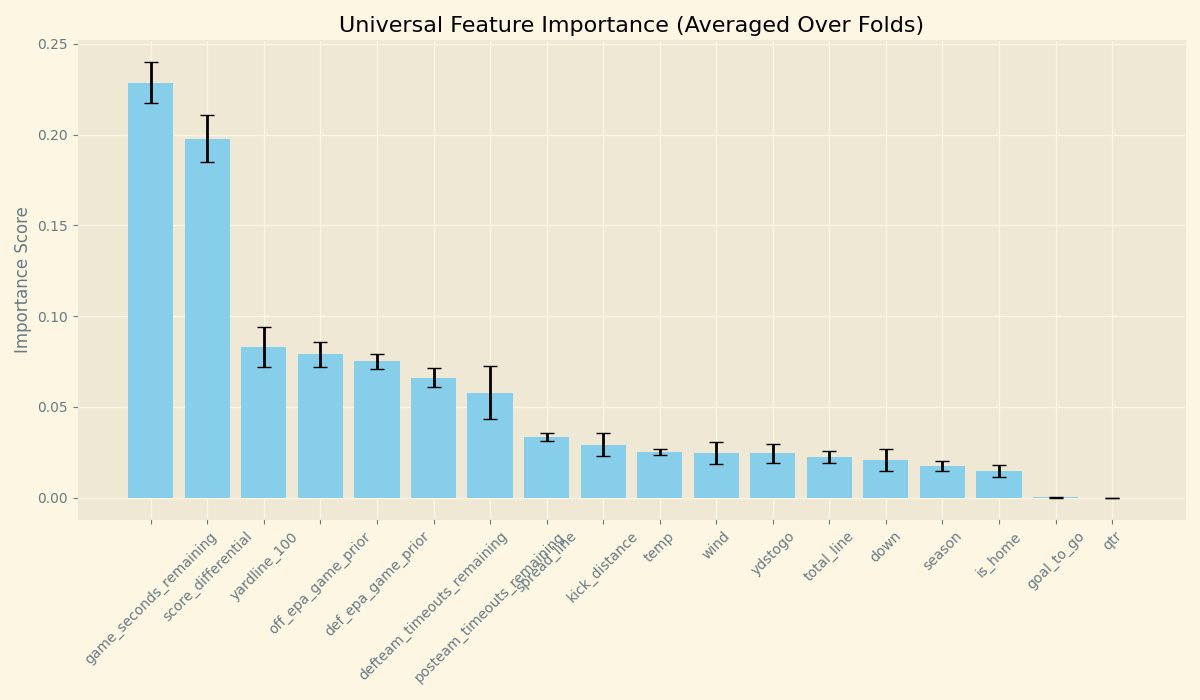
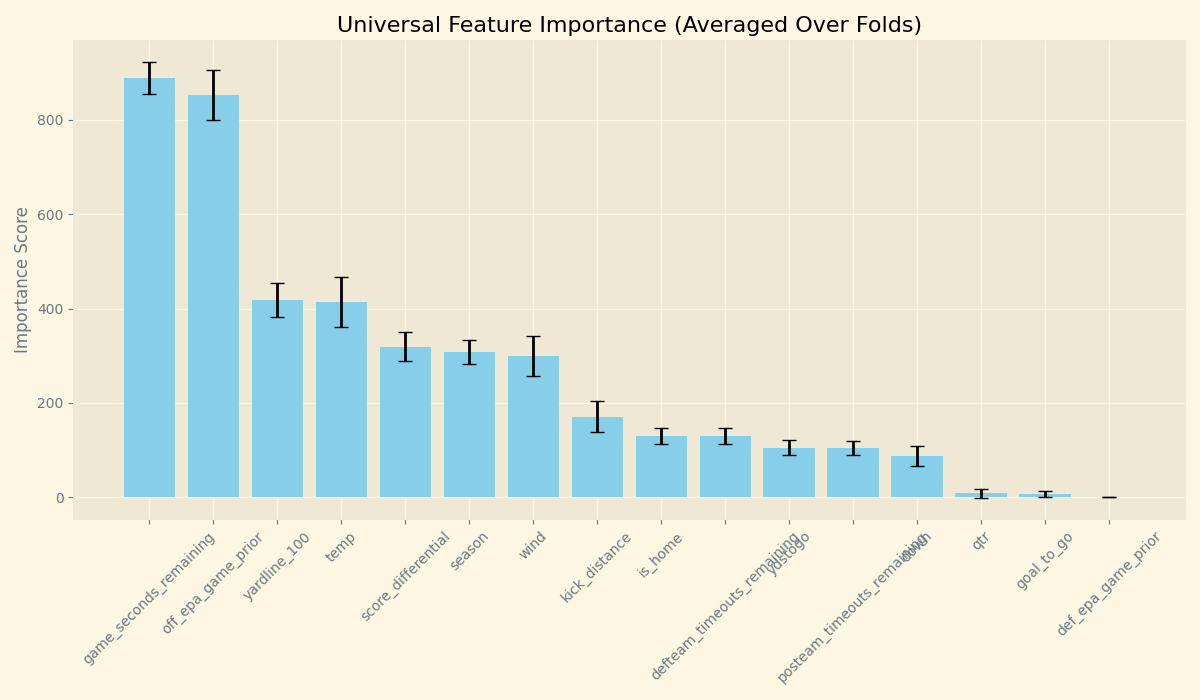
started the lightgbm model

diff --git a/notebooks/data_exploration.py b/notebooks/data_exploration.py
@@ -1,4 +1,4 @@
-import nflreadpy as nfl  # Switched to nflreadpy
+import nflreadpy as nfl 
 import pandas as pd
 import os
 import matplotlib.pyplot as plt
@@ -12,6 +12,8 @@ from sklearn.calibration import CalibratedClassifierCV
 from sklearn.metrics import recall_score, precision_score, f1_score
 from sklearn.model_selection import RandomizedSearchCV
 
+import lightgbm as lgb
+from lightgbm import LGBMClassifier
 
 
 plt.style.use('Solarize_Light2')
@@ -25,8 +27,7 @@ def load_comeback_data(years=list(range(2015,2025))):
         'qtr', 'game_seconds_remaining', 'score_differential',
         'yardline_100', 'down', 'ydstogo',
         'posteam_timeouts_remaining', 'defteam_timeouts_remaining',
-        'spread_line', 'epa', 'wind', 'total_line',
-        'kick_distance', 'temp', 'goal_to_go', 'result'
+         'epa', 'wind', 'kick_distance', 'temp', 'goal_to_go', 'result'
     ]
 
     def _download_and_cache_full_pbp():
@@ -50,7 +51,6 @@ def load_comeback_data(years=list(range(2015,2025))):
     else:
         pbp = _download_and_cache_full_pbp()
 
-    # Enforce the modeling schema for both cached and freshly-downloaded data.
     missing_after_refresh = [c for c in columns if c not in pbp.columns]
     if missing_after_refresh:
         raise ValueError(
@@ -61,7 +61,7 @@ def load_comeback_data(years=list(range(2015,2025))):
 
     pbp = add_epa(pbp)
     pbp = add_home_team(pbp)
-    df = pbp[pbp['qtr'] == 4].copy()
+    df = pbp[pbp['qtr'] >= 4].copy()
 
     def determine_win(row):
         if row['posteam'] == row['home_team']:
@@ -71,18 +71,15 @@ def load_comeback_data(years=list(range(2015,2025))):
 
     df['won_game'] = df.apply(determine_win, axis=1)
 
-    comeback_df = df[(df['qtr'] >= 4) & (df['score_differential'] < 0) & (df['score_differential'] >= -8)].copy()
+    comeback_df = df[(df['score_differential'] < 0) & (df['score_differential'] >= -8)].copy()
     comeback_df = comeback_df.sort_values(['game_id', 'game_seconds_remaining'], ascending=[True, False])
 
-    # Build drive IDs from possession changes within each game.
     drive_start = comeback_df['posteam'] != comeback_df.groupby('game_id')['posteam'].shift(1)
     comeback_df['drive_id'] = drive_start.groupby(comeback_df['game_id']).cumsum()
 
-    # Keep only each team's final trailing drive in the game.
     last_drive = comeback_df.groupby(['game_id', 'posteam'])['drive_id'].transform('max')
     comeback_df = comeback_df[comeback_df['drive_id'] == last_drive]
 
-    # Keep only the first play of that drive (most time remaining).
     comeback_df = (
         comeback_df.sort_values(['game_id', 'posteam', 'game_seconds_remaining'], ascending=[True, True, False])
         .groupby(['game_id', 'posteam'], as_index=False)
@@ -153,7 +150,7 @@ def prep_train_data(df):
     
     return X_train, X_test, y_train, y_test, X_val, y_val
 
-def rf_model(X_train, X_test, y_train, y_test, X_val, y_val):
+def train_rf_model(X_train, X_test, y_train, y_test, X_val, y_val):
     rf_base = RandomForestClassifier(
         random_state=42
     )
@@ -180,10 +177,10 @@ def rf_model(X_train, X_test, y_train, y_test, X_val, y_val):
     print("Best Params:", search.best_params_)
 
     best_rf = search.best_estimator_
-    rf_model = CalibratedClassifierCV(best_rf, method='sigmoid', cv=5)
-    rf_model.fit(X_train, y_train)
+    calibrated_rf = CalibratedClassifierCV(best_rf, method='sigmoid', cv=5)
+    calibrated_rf.fit(X_train, y_train)
     
-    val_probs = rf_model.predict_proba(X_val)[:,1]
+    val_probs = calibrated_rf.predict_proba(X_val)[:,1]
     thresholds = np.arange(0.05, 0.98, 0.02)
     best_t = 0.2
     best_r = -1
@@ -204,15 +201,75 @@ def rf_model(X_train, X_test, y_train, y_test, X_val, y_val):
     print("Best Precision: " + str(best_p))
     print("Best F1-Score: " + str(best_f1))
 
-    test_probs = rf_model.predict_proba(X_test)[:,1]
+    test_probs = calibrated_rf.predict_proba(X_test)[:,1]
     predictions = (test_probs >= best_t).astype(int)
     acc = accuracy_score(y_test, predictions)
     print(f'Model Accuracy: {acc:.2%}') 
     print(classification_report(y_test, predictions))
-    return rf_model, best_t
+    return calibrated_rf, best_t
 
-def plot_confusion_matrix(rf_model, X_test, y_test, threshold):
-    test_probs = rf_model.predict_proba(X_test)[:,1]
+def train_lightgbm_model(X_train, X_test, y_train, y_test, X_val, y_val):
+
+    lightgbm_base = LGBMClassifier(objective = 'binary', random_state=42, verbose = -1)
+    rs_params={
+        "n_estimators": [100, 200, 300, 500],   
+        "learning_rate": [0.01, 0.05, 0.1, 0.2],
+        "num_leaves": [15, 31, 63],
+        "max_depth": [-1, 4, 6, 8],
+        "subsample": [0.6, 0.8, 1.0],           
+        "colsample_bytree": [0.6, 0.8, 1.0],   
+        "min_child_samples": [10, 20, 40]
+    }
+    search = RandomizedSearchCV(
+        estimator = lightgbm_base,
+        param_distributions= rs_params,
+        n_iter = 40,
+        scoring = 'f1',
+        cv = 5,
+        random_state=42,
+        n_jobs = 1,
+        verbose = 1
+    )
+    search.fit(X_train, y_train)
+    print("Best CV F1:", search.best_score_)
+    print("Best Params:", search.best_params_)
+    best_lgbm = search.best_estimator_
+    calibrated_rf = CalibratedClassifierCV(best_lgbm, method='sigmoid', cv=5)
+    calibrated_rf.fit(X_train, y_train)
+
+    val_probs = calibrated_rf.predict_proba(X_val)[:,1]
+    thresholds = np.arange(0.05, 0.98, 0.02)
+    best_t = 0.2
+    best_r = -1
+    best_p = 0
+    best_f1 = 0
+    for t in thresholds:
+        preds = (val_probs >= t).astype(int)
+        r = recall_score(y_val, preds)
+        p = precision_score(y_val, preds, zero_division = 0)
+        f = f1_score(y_val, preds)
+        if f>best_f1:
+            best_r = r
+            best_p = p
+            best_t = t
+            best_f1 = f
+    print("Best Threshold: " + str(best_t))
+    print("Best Recall: " + str(best_r))
+    print("Best Precision: " + str(best_p))
+    print("Best F1-Score: " + str(best_f1))
+
+    test_probs = calibrated_rf.predict_proba(X_test)[:,1]
+    predictions = (test_probs >= best_t).astype(int)
+    acc = accuracy_score(y_test, predictions)
+    print(f'Model Accuracy: {acc:.2%}') 
+    print(classification_report(y_test, predictions))
+    return calibrated_rf, best_t
+
+
+
+
+def plot_confusion_matrix(calibrated_rf, X_test, y_test, threshold):
+    test_probs = calibrated_rf.predict_proba(X_test)[:,1]
     preds = (test_probs >= threshold).astype(int)
     cm = confusion_matrix(y_test, preds)
     disp = ConfusionMatrixDisplay(confusion_matrix=cm, display_labels=['Loss', 'Win'])
@@ -223,25 +280,33 @@ def plot_confusion_matrix(rf_model, X_test, y_test, threshold):
 def plot_smart_importance(calibrated_model, X_train):
     importances_list = []
 
-    for clf in calibrated_model.calibrated_classifiers_:
+    if hasattr(calibrated_model, 'calibrated_classifiers_'):
+        estimators = [clf.estimator for clf in calibrated_model.calibrated_classifiers_]
+    else:
+        estimators = [calibrated_model]
 
-        est = clf.estimator 
-        
-        if isinstance(est, Pipeline):
-            importances_list.append(est.named_steps['clf'].feature_importances_)
-        else:
+    for est in estimators:
+        if hasattr(est, 'feature_importances_'):
             importances_list.append(est.feature_importances_)
+
+    if not importances_list:
+        raise ValueError("No feature_importances_ found on the fitted estimator(s).")
+
     all_importances = np.array(importances_list)
     importances = np.mean(all_importances, axis=0)
     std = np.std(all_importances, axis=0)
-    indices = np.argsort(importances)[::-1]
     feature_names = X_train.columns
+    if len(importances) != len(feature_names):
+        raise ValueError(
+            f"Feature importance length ({len(importances)}) does not match number of features ({len(feature_names)})."
+        )
+    indices = np.argsort(importances)[::-1]
     plt.figure(figsize=(12, 7))
     plt.title("Universal Feature Importance (Averaged Over Folds)")
-    plt.bar(range(X_train.shape[1]), importances[indices], 
+    plt.bar(range(len(feature_names)), importances[indices], 
             color="skyblue", yerr=std[indices], align="center", capsize=5)
     
-    plt.xticks(range(X_train.shape[1]), [feature_names[i] for i in indices], rotation=45)
+    plt.xticks(range(len(feature_names)), [feature_names[i] for i in indices], rotation=45)
     plt.ylabel("Importance Score")
     plt.tight_layout()
     plt.savefig("results/plots/feature_importance_universal.png")
@@ -251,7 +316,7 @@ df = load_comeback_data()
 plot_win_probability_groups(df)
 
 X_train, X_test, y_train, y_test, X_val, y_val = prep_train_data(df)
-rf_model, best_t = rf_model(X_train, X_test, y_train, y_test, X_val, y_val)
+calibrated_rf, best_t = train_lightgbm_model(X_train, X_test, y_train, y_test, X_val, y_val)
 
-plot_confusion_matrix(rf_model, X_test, y_test, best_t)
-plot_smart_importance(rf_model, X_train)
+plot_confusion_matrix(calibrated_rf, X_test, y_test, best_t)
+plot_smart_importance(calibrated_rf, X_train)
